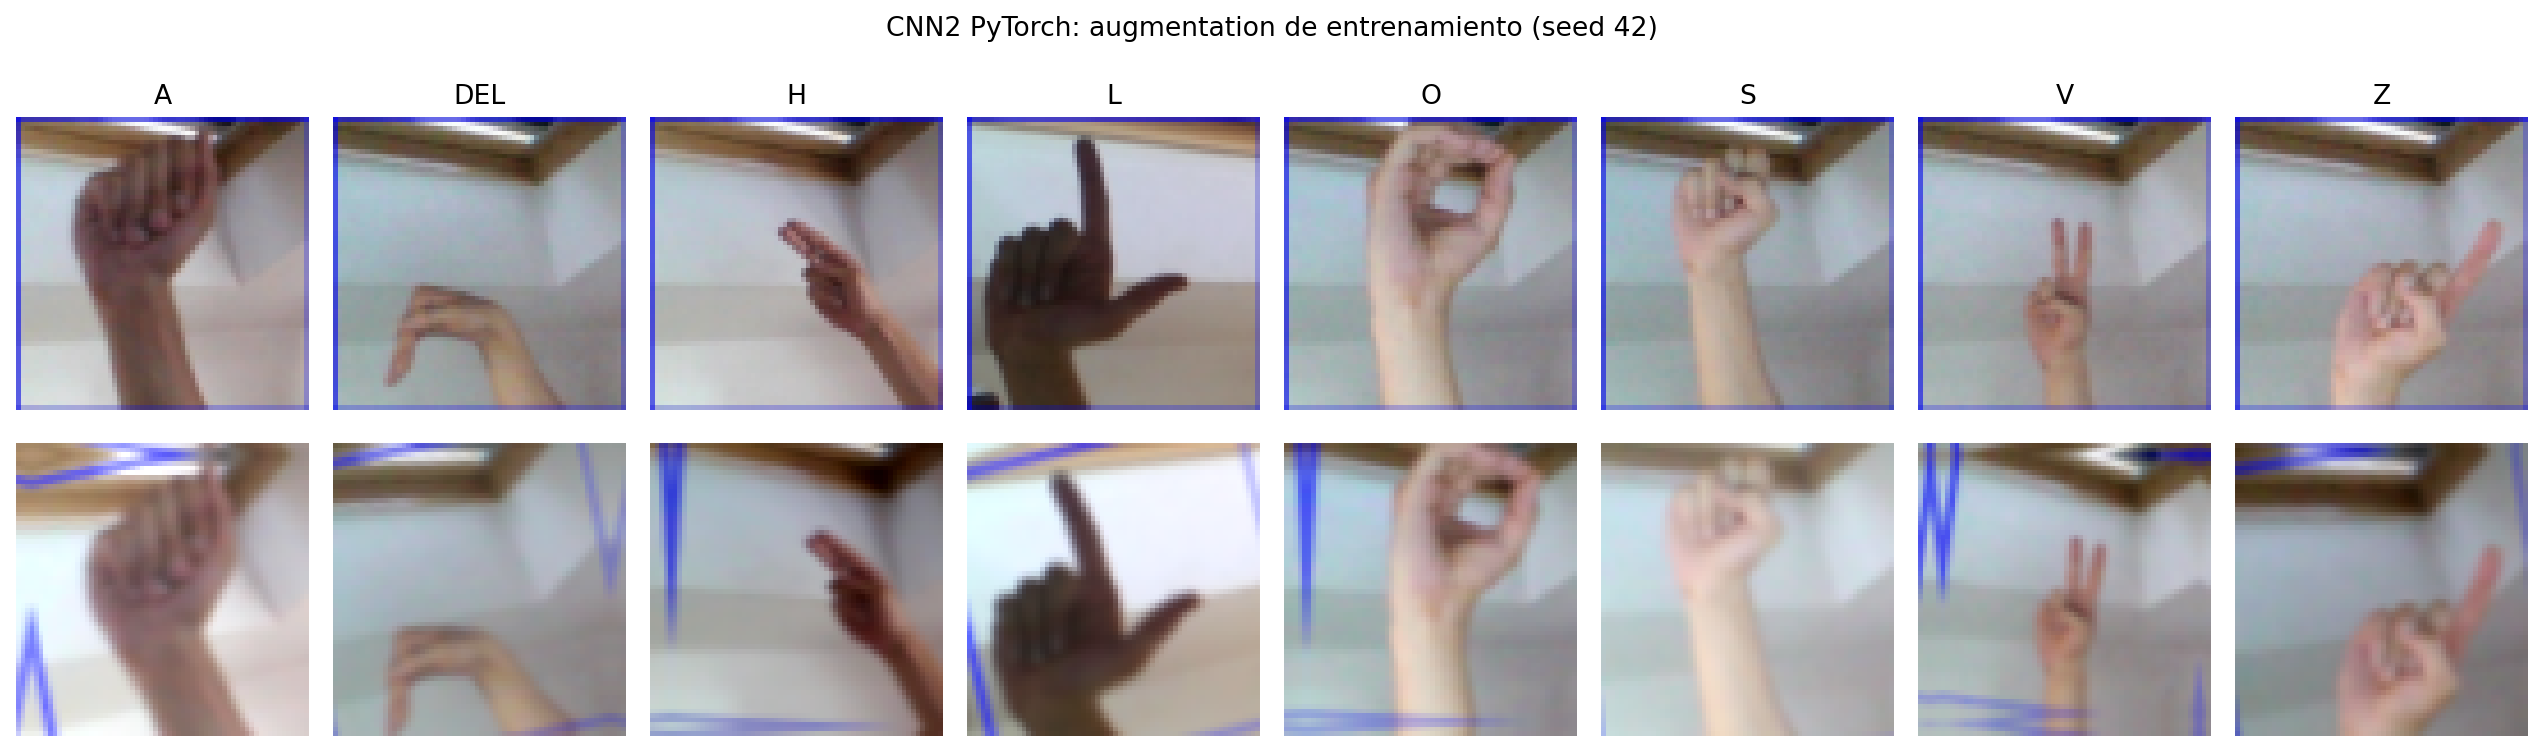
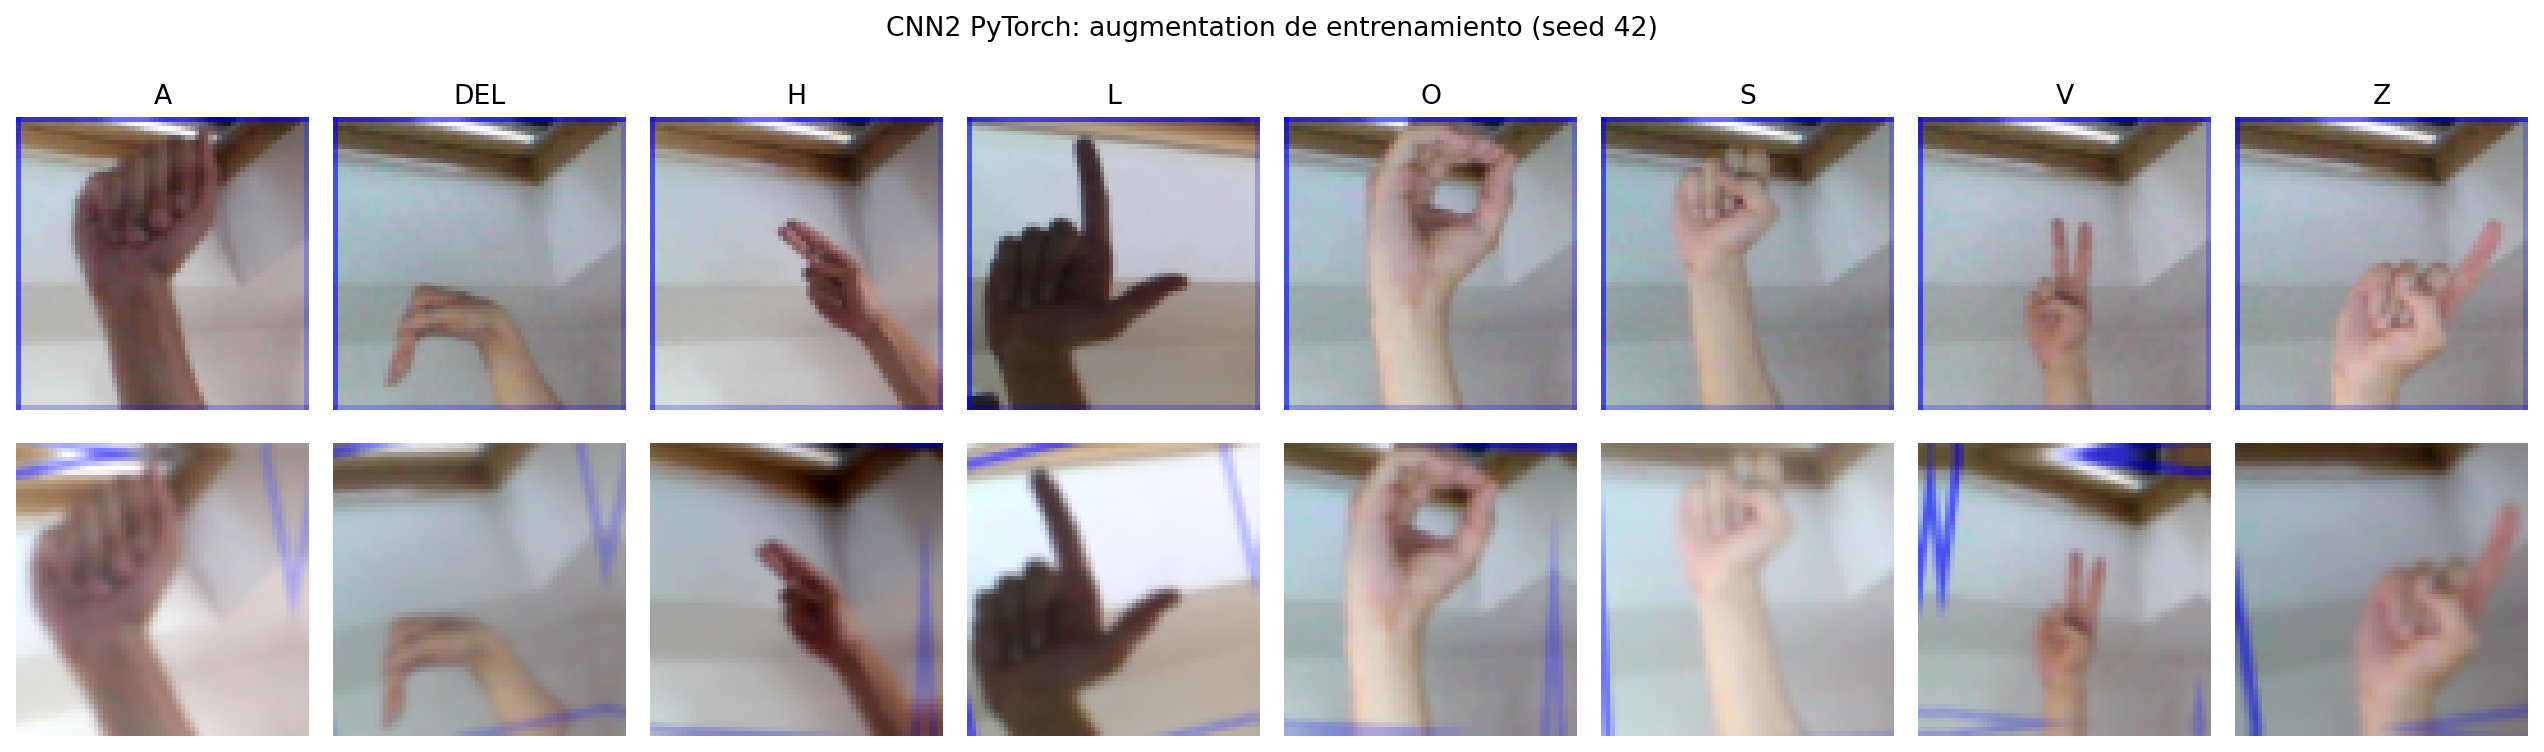
fix: add reconstructed asl_dataset module and PS 5.1 stderr fix

diff --git a/src/data/asl_dataset.py b/src/data/asl_dataset.py
@@ -1,0 +1,182 @@
+"""Dataset memmap y augmentation tensorial de CNN2.
+
+RECONSTRUCCIÓN: el módulo original no llegó al repositorio porque la regla
+``**/data/`` de ``.gitignore`` también excluye ``src/data/``. Esta versión se
+reescribió a partir de la especificación versionada (README, auditoría del
+Lab3, ``notebooks/01_modelo_pytorch.ipynb`` y las pruebas unitarias). Respeta
+la misma política, pero no garantiza igualdad muestra a muestra con el archivo
+original.
+
+Política de augmentation (solo en ``train()``; en ``eval()`` es identidad):
+
+1. rotación uniforme en ±0.04 vueltas (±14.4°);
+2. traslación uniforme en ±10 % de alto y ancho;
+3. zoom uniforme en ±10 %, con el mismo factor en ambos ejes;
+4. brillo: delta uniforme en ±0.2 sobre el rango ``[0,1]``;
+5. contraste: factor uniforme en ``[0.8,1.2]`` alrededor de la media por canal.
+
+Las tres operaciones geométricas son bilineales con relleno ``reflection`` y
+``align_corners=False``. No hay flip horizontal.
+"""
+
+from __future__ import annotations
+
+import json
+import math
+from pathlib import Path
+from typing import Any
+
+import numpy as np
+import torch
+import torch.nn.functional as F
+from torch import nn
+from torch.utils.data import Dataset
+
+
+SPLITS = ("train", "val", "test")
+IMAGE_SHAPE = (64, 64, 3)
+
+ROTATION_FACTOR = 0.04
+TRANSLATION_FACTOR = 0.1
+ZOOM_FACTOR = 0.1
+BRIGHTNESS_FACTOR = 0.2
+CONTRAST_FACTOR = 0.2
+
+
+class ASLNpyDataset(Dataset):
+    """Lee ``X_<split>.npy`` / ``y_<split>.npy`` con memoria mapeada.
+
+    Cada ``__getitem__`` copia una sola imagen, la pasa de NHWC ``uint8`` a
+    NCHW ``float32`` en ``[0,1]`` y devuelve la etiqueta como ``int64``. Los
+    memmaps no se serializan: cada worker los reabre al primer acceso.
+    """
+
+    def __init__(self, data_dir: str | Path, split: str) -> None:
+        if split not in SPLITS:
+            raise ValueError(f"split debe ser uno de {SPLITS}; se recibió {split!r}")
+        self.data_dir = Path(data_dir)
+        self.split = split
+        self.images_path = self.data_dir / f"X_{split}.npy"
+        self.labels_path = self.data_dir / f"y_{split}.npy"
+        classes_path = self.data_dir / "classes.json"
+        for path in (self.images_path, self.labels_path, classes_path):
+            if not path.is_file():
+                raise FileNotFoundError(f"No se encontró {path}")
+        self.class_names: list[str] = json.loads(classes_path.read_text(encoding="utf-8"))
+
+        self._images: np.ndarray | None = None
+        self._labels: np.ndarray | None = None
+        images = self.images
+        labels = self.labels
+        if images.dtype != np.uint8 or images.shape[1:] != IMAGE_SHAPE:
+            raise ValueError(
+                f"{self.images_path} debe ser uint8 (N,64,64,3); "
+                f"se encontró {images.dtype} {images.shape}"
+            )
+        if labels.ndim != 1 or labels.shape[0] != images.shape[0]:
+            raise ValueError("Imágenes y etiquetas no tienen la misma longitud")
+        self._length = int(images.shape[0])
+
+    @property
+    def images(self) -> np.ndarray:
+        if self._images is None:
+            self._images = np.load(self.images_path, mmap_mode="r")
+        return self._images
+
+    @property
+    def labels(self) -> np.ndarray:
+        if self._labels is None:
+            self._labels = np.load(self.labels_path, mmap_mode="r")
+        return self._labels
+
+    def __getstate__(self) -> dict[str, Any]:
+        state = self.__dict__.copy()
+        state["_images"] = None
+        state["_labels"] = None
+        return state
+
+    def __len__(self) -> int:
+        return self._length
+
+    def __getitem__(self, index: int) -> tuple[torch.Tensor, torch.Tensor]:
+        image = np.array(self.images[index], dtype=np.uint8)  # copia de una imagen
+        tensor = torch.from_numpy(image).permute(2, 0, 1).to(torch.float32).div_(255.0)
+        label = torch.tensor(int(self.labels[index]), dtype=torch.int64)
+        return tensor.contiguous(), label
+
+
+class CNN2Augmentation(nn.Module):
+    """Augmentation por muestra, ejecutado en el dispositivo del batch."""
+
+    def __init__(
+        self,
+        rotation: float = ROTATION_FACTOR,
+        translation: float = TRANSLATION_FACTOR,
+        zoom: float = ZOOM_FACTOR,
+        brightness: float = BRIGHTNESS_FACTOR,
+        contrast: float = CONTRAST_FACTOR,
+    ) -> None:
+        super().__init__()
+        self.rotation = rotation
+        self.translation = translation
+        self.zoom = zoom
+        self.brightness = brightness
+        self.contrast = contrast
+
+    @staticmethod
+    def _uniform(batch: torch.Tensor, low: float, high: float, columns: int = 1) -> torch.Tensor:
+        values = torch.rand(batch.shape[0], columns, device=batch.device, dtype=batch.dtype)
+        return values * (high - low) + low
+
+    @staticmethod
+    def _warp(images: torch.Tensor, theta: torch.Tensor) -> torch.Tensor:
+        grid = F.affine_grid(theta, list(images.shape), align_corners=False)
+        return F.grid_sample(
+            images, grid, mode="bilinear", padding_mode="reflection", align_corners=False
+        )
+
+    def forward(self, images: torch.Tensor) -> torch.Tensor:
+        if not self.training:
+            return images
+        batch = images.shape[0]
+        zeros = images.new_zeros(batch)
+        ones = images.new_ones(batch)
+
+        # 1. Rotación alrededor del centro.
+        angle = self._uniform(images, -self.rotation, self.rotation).squeeze(1) * (2.0 * math.pi)
+        cos, sin = torch.cos(angle), torch.sin(angle)
+        theta = torch.stack(
+            (torch.stack((cos, -sin, zeros), dim=1), torch.stack((sin, cos, zeros), dim=1)),
+            dim=1,
+        )
+        images = self._warp(images, theta)
+
+        # 2. Traslación: una fracción f del lado equivale a 2f en coordenadas [-1,1].
+        shift = self._uniform(images, -self.translation, self.translation, columns=2) * 2.0
+        theta = torch.stack(
+            (
+                torch.stack((ones, zeros, shift[:, 0]), dim=1),
+                torch.stack((zeros, ones, shift[:, 1]), dim=1),
+            ),
+            dim=1,
+        )
+        images = self._warp(images, theta)
+
+        # 3. Zoom isotrópico (mismo factor en alto y ancho).
+        scale = 1.0 + self._uniform(images, -self.zoom, self.zoom).squeeze(1)
+        theta = torch.stack(
+            (torch.stack((scale, zeros, zeros), dim=1), torch.stack((zeros, scale, zeros), dim=1)),
+            dim=1,
+        )
+        images = self._warp(images, theta)
+
+        # 4. Brillo sobre el rango [0,1].
+        delta = self._uniform(images, -self.brightness, self.brightness).view(batch, 1, 1, 1)
+        images = (images + delta).clamp(0.0, 1.0)
+
+        # 5. Contraste alrededor de la media espacial de cada canal.
+        factor = self._uniform(images, 1.0 - self.contrast, 1.0 + self.contrast).view(
+            batch, 1, 1, 1
+        )
+        mean = images.mean(dim=(2, 3), keepdim=True)
+        return ((images - mean) * factor + mean).clamp(0.0, 1.0)

diff --git a/src/data/__init__.py b/src/data/__init__.py
@@ -1,0 +1,1 @@
+"""Datos y augmentation de CNN2."""
